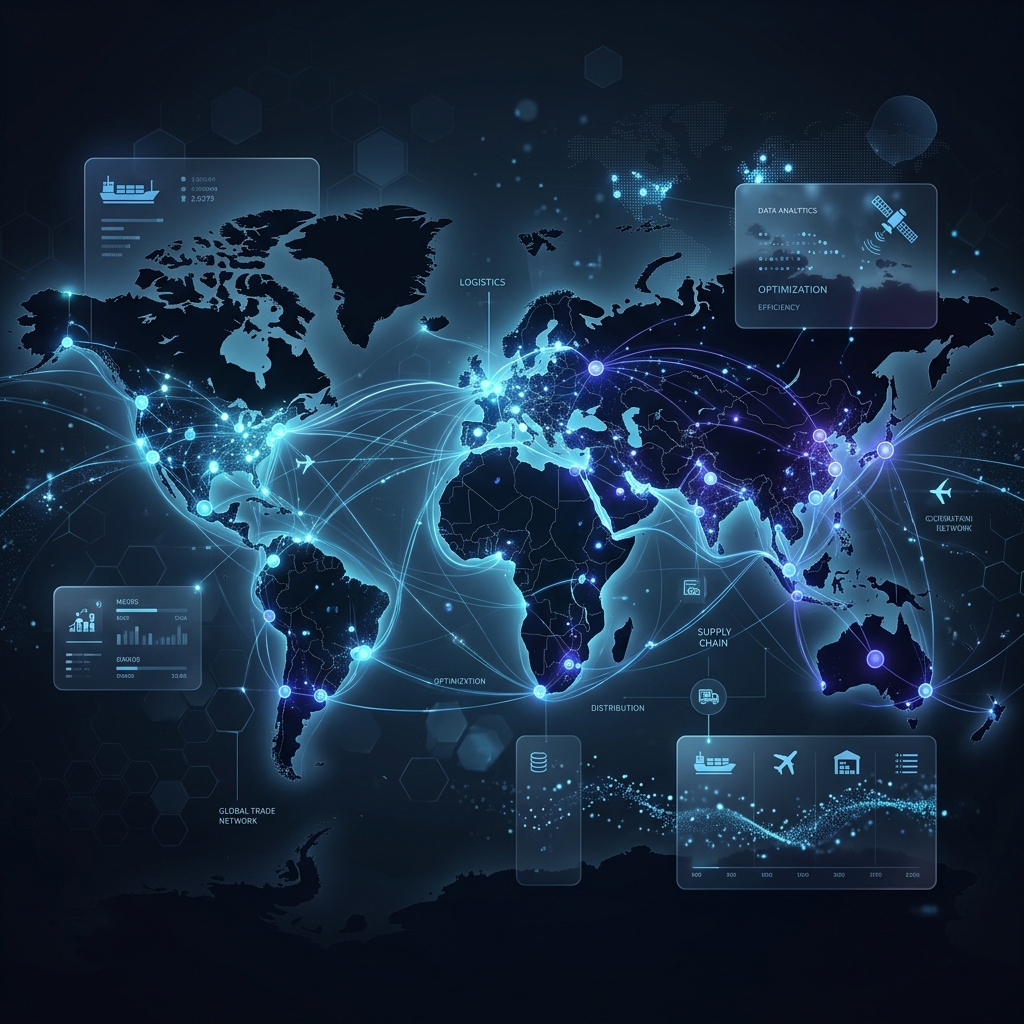
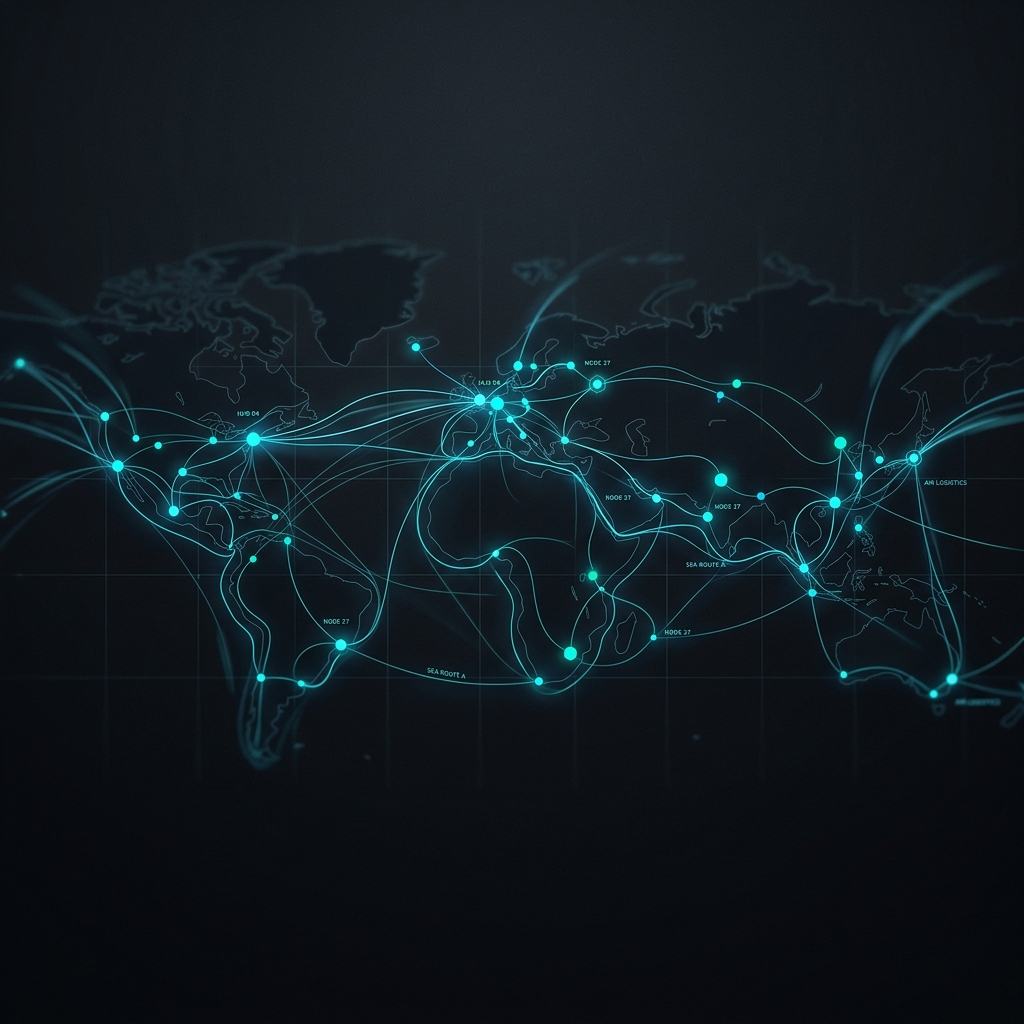
fix(perf,ui): resolve local latency issue and apply cyan theme

diff --git a/frontend-v2/src/index.css b/frontend-v2/src/index.css
@@ -3,12 +3,12 @@
 @import "tailwindcss";
 
 @theme {
-  --color-primary: #6366f1;
+  --color-primary: #06b6d4;
   --color-cyan: #22d3ee;
   --color-emerald: #10b981;
   --color-amber: #f59e0b;
   --color-rose: #f43f5e;
-  --color-violet: #8b5cf6;
+  --color-violet: #0891b2;
 
   --color-canvas: #0a0a0b;
   --color-surface: rgba(255, 255, 255, 0.02);
@@ -18,9 +18,35 @@
   --color-body: #a1a1aa;
   --color-muted: #71717a;
 
-  --color-accent-indigo: #6366f1;
+  --color-accent-indigo: #06b6d4;
   --color-accent-cyan: #22d3ee;
   --color-accent-yellow: #f59e0b;
+
+  /* Override standard Tailwind indigo colors to vibrant cyan */
+  --color-indigo-50: #ecfeff;
+  --color-indigo-100: #cffafe;
+  --color-indigo-200: #a5f3fc;
+  --color-indigo-300: #67e8f9;
+  --color-indigo-400: #22d3ee;
+  --color-indigo-500: #06b6d4;
+  --color-indigo-600: #0891b2;
+  --color-indigo-700: #0e7490;
+  --color-indigo-800: #155e75;
+  --color-indigo-900: #164e63;
+  --color-indigo-950: #083344;
+
+  /* Override standard Tailwind purple colors to vibrant teal */
+  --color-purple-50: #f0fdfa;
+  --color-purple-100: #ccfbf1;
+  --color-purple-200: #99f6e4;
+  --color-purple-300: #5eead4;
+  --color-purple-400: #14b8a6;
+  --color-purple-500: #0d9488;
+  --color-purple-600: #0f766e;
+  --color-purple-700: #115e59;
+  --color-purple-800: #134e4a;
+  --color-purple-900: #115e59;
+  --color-purple-950: #042f2e;
 
   --font-sans: 'Inter', -apple-system, system-ui, 'Segoe UI', Roboto, sans-serif;
   --font-mono: 'JetBrains Mono', 'Geist Mono', monospace;
@@ -61,7 +87,7 @@ body {
 .glass-card--emerald:hover { box-shadow: 0 8px 24px rgba(16, 185, 129, 0.12); }
 .glass-card--amber:hover { box-shadow: 0 8px 24px rgba(245, 158, 11, 0.12); }
 .glass-card--rose:hover { box-shadow: 0 8px 24px rgba(244, 63, 94, 0.12); }
-.glass-card--indigo:hover { box-shadow: 0 8px 24px rgba(99, 102, 241, 0.12); }
+.glass-card--indigo:hover { box-shadow: 0 8px 24px rgba(6, 182, 212, 0.12); }
 .glass-card--cyan:hover { box-shadow: 0 8px 24px rgba(34, 211, 238, 0.12); }
 
 @media (prefers-reduced-motion: reduce) {

diff --git a/frontend-v2/src/views/NetworkDashboard.tsx b/frontend-v2/src/views/NetworkDashboard.tsx
@@ -75,7 +75,7 @@ export function NetworkDashboard() {
   }, [data]);
 
   const getNodeColor = useCallback((node: any) => {
-    if (node.isHub) return '#6366f1';
+    if (node.isHub) return '#06b6d4';
     return riskScoreColor(node.risk_score);
   }, []);
 
@@ -135,16 +135,11 @@ export function NetworkDashboard() {
           </div>
           
           <div className="relative z-10 p-8 lg:p-12 max-w-2xl">
-            <div className="inline-flex items-center gap-2 px-3 py-1.5 rounded-full border border-indigo-500/30 bg-indigo-500/10 text-indigo-300 text-xs font-medium mb-6">
-              <span className="w-2 h-2 rounded-full bg-indigo-400 animate-pulse" />
-              Live Network Monitored
-            </div>
-            <h1 className="text-3xl lg:text-4xl xl:text-5xl font-bold text-white mb-4 tracking-tight leading-tight">
-              Command Center <br/> 
-              <span className="text-indigo-400 font-medium">Supply Chain Intelligence</span>
+            <h1 className="text-3xl lg:text-4xl xl:text-5xl font-bold text-white mb-3 tracking-tight leading-tight">
+              Command Center
             </h1>
-            <p className="text-slate-400 text-sm lg:text-base leading-relaxed mb-8 max-w-xl">
-              End-to-end visibility into global supplier networks. Powered by real-time ML inference and autonomous AI agents to predict risk and execute mitigation strategies before stockouts occur.
+            <p className="text-slate-400 text-sm lg:text-base leading-relaxed mb-6 max-w-xl">
+              Real-time risk prediction and autonomous supply chain intelligence.
             </p>
             <div className="flex items-center gap-4">
               <button className="btn-primary" onClick={() => document.getElementById('alert-center')?.scrollIntoView({ behavior: 'smooth' })}>
@@ -215,7 +210,7 @@ export function NetworkDashboard() {
             </div>
             <div className="absolute bottom-3 left-3 z-10 bg-slate-950/85 backdrop-blur-xs border border-hairline px-4 py-2 rounded-xl flex items-center gap-4 text-xs pointer-events-auto">
               <span className="text-muted text-[10px] uppercase font-bold mr-1">Node Legend:</span>
-              <span className="flex items-center gap-1.5"><span className="w-2.5 h-2.5 rounded-full bg-[#6366f1]" /> Central Hub</span>
+              <span className="flex items-center gap-1.5"><span className="w-2.5 h-2.5 rounded-full bg-[#06b6d4]" /> Central Hub</span>
               <span className="flex items-center gap-1.5"><span className="w-2.5 h-2.5 rounded-full bg-[#10b981]" /> Low Risk</span>
               <span className="flex items-center gap-1.5"><span className="w-2.5 h-2.5 rounded-full bg-[#f59e0b]" /> Elevated Risk</span>
               <span className="flex items-center gap-1.5"><span className="w-2.5 h-2.5 rounded-full bg-[#f43f5e]" /> Critical Risk</span>

diff --git a/frontend-v2/src/components/charts/DemandForecastChart.tsx b/frontend-v2/src/components/charts/DemandForecastChart.tsx
@@ -43,9 +43,9 @@ export const DemandForecastChart = memo(function DemandForecastChart({ forecasts
               />
               <YAxis tick={{ fill: '#94a3b8', fontSize: 10 }} />
               <Tooltip contentStyle={{ background: '#0f172a', border: '1px solid rgba(148,163,184,0.2)', borderRadius: 12 }} />
-              <Area type="monotone" dataKey="p95" stroke="none" fill="#6366f1" fillOpacity={0.15} isAnimationActive={!reduced} />
+              <Area type="monotone" dataKey="p95" stroke="none" fill="#06b6d4" fillOpacity={0.15} isAnimationActive={!reduced} />
               <Area type="monotone" dataKey="p05" stroke="none" fill="#020617" fillOpacity={1} isAnimationActive={!reduced} />
-              <Line type="monotone" dataKey="p50" stroke="#6366f1" strokeWidth={2} dot={{ r: 3 }} isAnimationActive={!reduced} />
+              <Line type="monotone" dataKey="p50" stroke="#06b6d4" strokeWidth={2} dot={{ r: 3 }} isAnimationActive={!reduced} />
               <Line type="monotone" dataKey="actual" stroke="#10b981" strokeWidth={2} dot={{ r: 3 }} isAnimationActive={!reduced} />
             </AreaChart>
           </ResponsiveContainer>

diff --git a/frontend-v2/src/views/InventoryHeatmap.tsx b/frontend-v2/src/views/InventoryHeatmap.tsx
@@ -118,10 +118,10 @@ export function InventoryHeatmap() {
                       <XAxis dataKey="date" stroke="#94a3b8" tick={{ fill: '#94a3b8', fontSize: 10 }} />
                       <YAxis stroke="#94a3b8" tick={{ fill: '#94a3b8', fontSize: 10 }} />
                       <Tooltip contentStyle={{ background: '#0f172a', border: '1px solid rgba(148,163,184,0.2)', borderRadius: 12 }} />
-                      <Area type="monotone" dataKey="p95" fill="rgba(99,102,241,0.06)" stroke="none" isAnimationActive={!reduced} />
+                      <Area type="monotone" dataKey="p95" fill="rgba(6,182,212,0.06)" stroke="none" isAnimationActive={!reduced} />
                       <Area type="monotone" dataKey="p05" fill="#020617" stroke="none" isAnimationActive={!reduced} />
                       <Line type="monotone" dataKey="actual" stroke="#10b981" strokeWidth={2} dot={{ r: 2 }} isAnimationActive={!reduced} />
-                      <Line type="monotone" dataKey="p50" stroke="#6366f1" strokeDasharray="4 4" strokeWidth={2} dot={false} isAnimationActive={!reduced} />
+                      <Line type="monotone" dataKey="p50" stroke="#06b6d4" strokeDasharray="4 4" strokeWidth={2} dot={false} isAnimationActive={!reduced} />
                     </ComposedChart>
                   </ResponsiveContainer>
                 </div>

diff --git a/frontend-v2/src/views/SkuDetail.tsx b/frontend-v2/src/views/SkuDetail.tsx
@@ -131,10 +131,10 @@ export function SkuDetail() {
                   <XAxis dataKey="date" tick={{ fill: '#94a3b8', fontSize: 10 }} minTickGap={28} />
                   <YAxis tick={{ fill: '#94a3b8', fontSize: 10 }} />
                   <RechartsTooltip contentStyle={{ background: '#0f172a', border: '1px solid rgba(148,163,184,0.2)', borderRadius: 12 }} />
-                  <Area type="monotone" dataKey="p95" fill="#6366f1" fillOpacity={0.12} stroke="none" isAnimationActive={!reduced} />
+                  <Area type="monotone" dataKey="p95" fill="#06b6d4" fillOpacity={0.12} stroke="none" isAnimationActive={!reduced} />
                   <Area type="monotone" dataKey="p05" fill="#020617" stroke="none" isAnimationActive={!reduced} />
                   <Line type="monotone" dataKey="actual" stroke="#10b981" strokeWidth={2.5} dot={{ r: 3 }} isAnimationActive={!reduced} name="Actual demand" />
-                  <Line type="monotone" dataKey="p50" stroke="#6366f1" strokeDasharray="4 4" strokeWidth={2.5} dot={false} isAnimationActive={!reduced} name="P50 forecast" />
+                  <Line type="monotone" dataKey="p50" stroke="#06b6d4" strokeDasharray="4 4" strokeWidth={2.5} dot={false} isAnimationActive={!reduced} name="P50 forecast" />
                 </ComposedChart>
               </ResponsiveContainer>
             </div>

diff --git a/frontend-v2/src/api/client.ts b/frontend-v2/src/api/client.ts
@@ -1,6 +1,6 @@
 import axios from 'axios';
 
-const apiURL = import.meta.env.VITE_API_URL || 'http://localhost:8000';
+const apiURL = import.meta.env.VITE_API_URL || 'http://127.0.0.1:8000';
 
 export const apiClient = axios.create({
   baseURL: `${apiURL}/api/v1`,

diff --git a/frontend-v2/src/components/charts/Sparkline.tsx b/frontend-v2/src/components/charts/Sparkline.tsx
@@ -11,7 +11,7 @@ interface SparklineProps {
 
 export const Sparkline = memo(function Sparkline({
   data,
-  color = '#6366f1',
+  color = '#06b6d4',
   width = 72,
   height = 24,
 }: SparklineProps) {

diff --git a/frontend-v2/src/components/charts/StackedInventoryArea.tsx b/frontend-v2/src/components/charts/StackedInventoryArea.tsx
@@ -5,7 +5,7 @@ import { useInView } from '../../hooks/useInView';
 import { usePrefersReducedMotion } from '../../hooks/usePrefersReducedMotion';
 import { GlassCard } from '../ui/GlassCard';
 
-const AREA_COLORS = ['#6366f1', '#22d3ee', '#10b981', '#f59e0b', '#f43f5e'];
+const AREA_COLORS = ['#06b6d4', '#22d3ee', '#10b981', '#f59e0b', '#f43f5e'];
 
 interface StackedInventoryAreaProps {
   skus: InventorySku[];

diff --git a/frontend-v2/src/components/ui/RadialGauge.tsx b/frontend-v2/src/components/ui/RadialGauge.tsx
@@ -14,7 +14,7 @@ const ACCENT_STROKE: Record<RiskAccent, string> = {
   emerald: '#10b981',
   amber: '#f59e0b',
   rose: '#f43f5e',
-  indigo: '#6366f1',
+  indigo: '#06b6d4',
   cyan: '#22d3ee',
 };
 

diff --git a/frontend-v2/src/views/ModelObservatory.tsx b/frontend-v2/src/views/ModelObservatory.tsx
@@ -131,7 +131,7 @@ export function ModelObservatory() {
                     <XAxis dataKey="date" tick={{ fontSize: 9, fill: '#94a3b8' }} />
                     <YAxis tick={{ fontSize: 9, fill: '#94a3b8' }} domain={['dataMin', 'dataMax']} />
                     <Tooltip contentStyle={{ background: '#0f172a', borderRadius: 12 }} />
-                    <Line type="monotone" dataKey="wrmsse" stroke="#6366f1" strokeWidth={2} dot={{ r: 3 }} isAnimationActive={!reduced} />
+                    <Line type="monotone" dataKey="wrmsse" stroke="#06b6d4" strokeWidth={2} dot={{ r: 3 }} isAnimationActive={!reduced} />
                   </LineChart>
                 </ResponsiveContainer>
               </div>

diff --git a/frontend-v2/src/views/SupplierDetail.tsx b/frontend-v2/src/views/SupplierDetail.tsx
@@ -169,7 +169,7 @@ export function SupplierDetail() {
                     <XAxis dataKey="cycle" tick={{ fill: '#94a3b8', fontSize: 10 }} />
                     <YAxis tick={{ fill: '#94a3b8', fontSize: 10 }} domain={[0, 100]} unit="%" />
                     <RechartsTooltip contentStyle={{ background: '#0f172a', border: '1px solid rgba(148,163,184,0.2)', borderRadius: 12 }} />
-                    <Line type="monotone" dataKey="score" stroke="#6366f1" strokeWidth={2.5} dot={{ r: 4 }} isAnimationActive={!reduced} />
+                    <Line type="monotone" dataKey="score" stroke="#06b6d4" strokeWidth={2.5} dot={{ r: 4 }} isAnimationActive={!reduced} />
                   </LineChart>
                 </ResponsiveContainer>
               ) : (

diff --git a/agent/orchestrator.py b/agent/orchestrator.py
@@ -483,6 +483,25 @@ def _get_orchestrator_data() -> dict[str, pd.DataFrame]:
     """Load processed data dynamically; reload on modification or check format fallbacks."""
     global _data_cache
     
+    # Check if we can reuse the fully processed dataframes in cache
+    supplier_mtime = 0.0
+    demand_mtime = 0.0
+    for ext in [".parquet", ".pkt", ".pkl", ".csv", ".json"]:
+        s_path = Path(settings.data_processed_dir) / f"supplier_train{ext}"
+        d_path = Path(settings.data_processed_dir) / f"demand_features{ext}"
+        if s_path.exists() and supplier_mtime == 0.0:
+            supplier_mtime = os.path.getmtime(s_path)
+        if d_path.exists() and demand_mtime == 0.0:
+            demand_mtime = os.path.getmtime(d_path)
+
+    if (
+        "supplier_df" in _data_cache 
+        and _last_loaded_mtimes.get("supplier_train") == supplier_mtime 
+        and "demand_df" in _data_cache 
+        and _last_loaded_mtimes.get("demand_features") == demand_mtime
+    ):
+        return _data_cache
+    
     # 1. Load supplier data
     supplier_df = _load_file_with_formats("supplier_train")
     if supplier_df is not None: